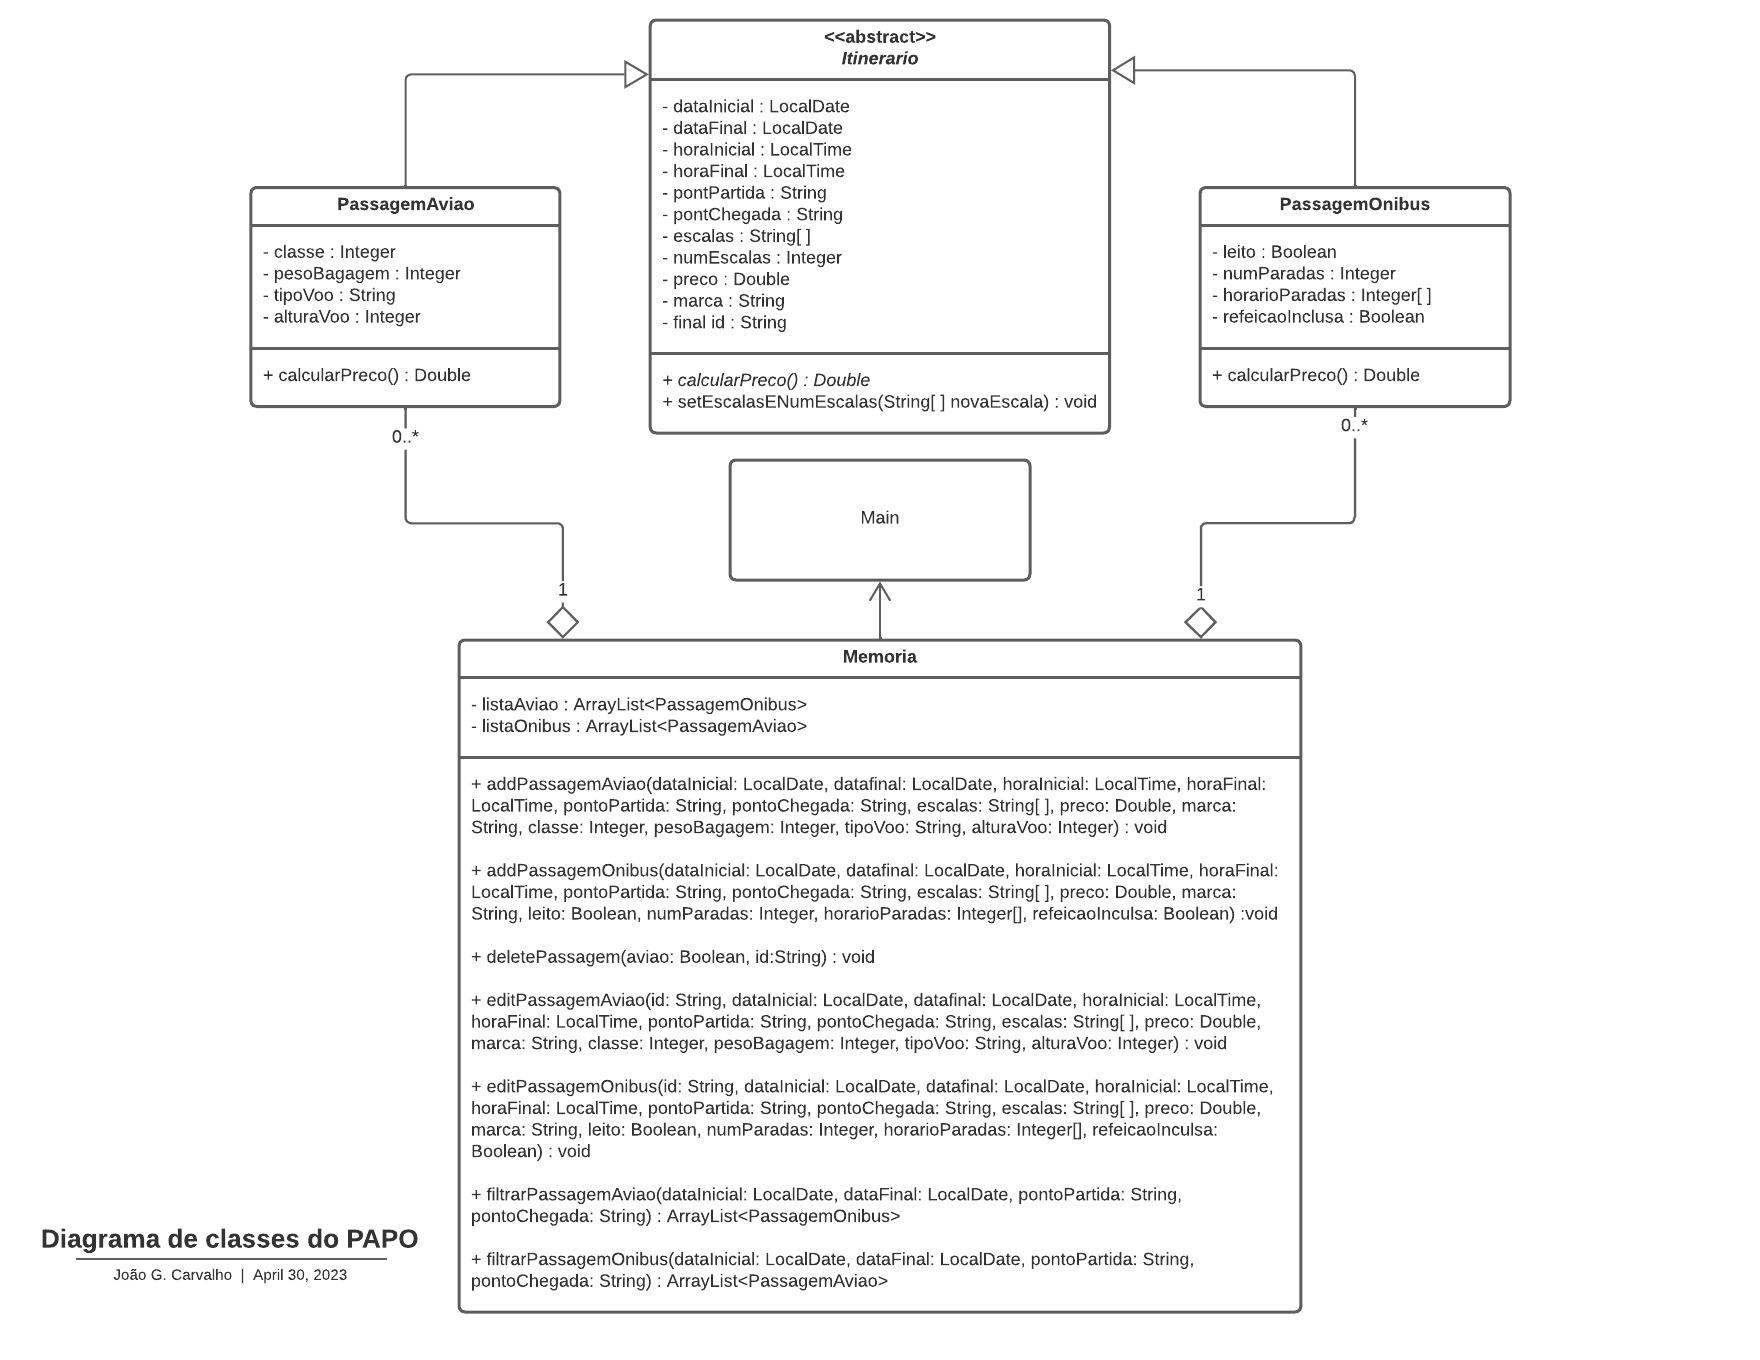
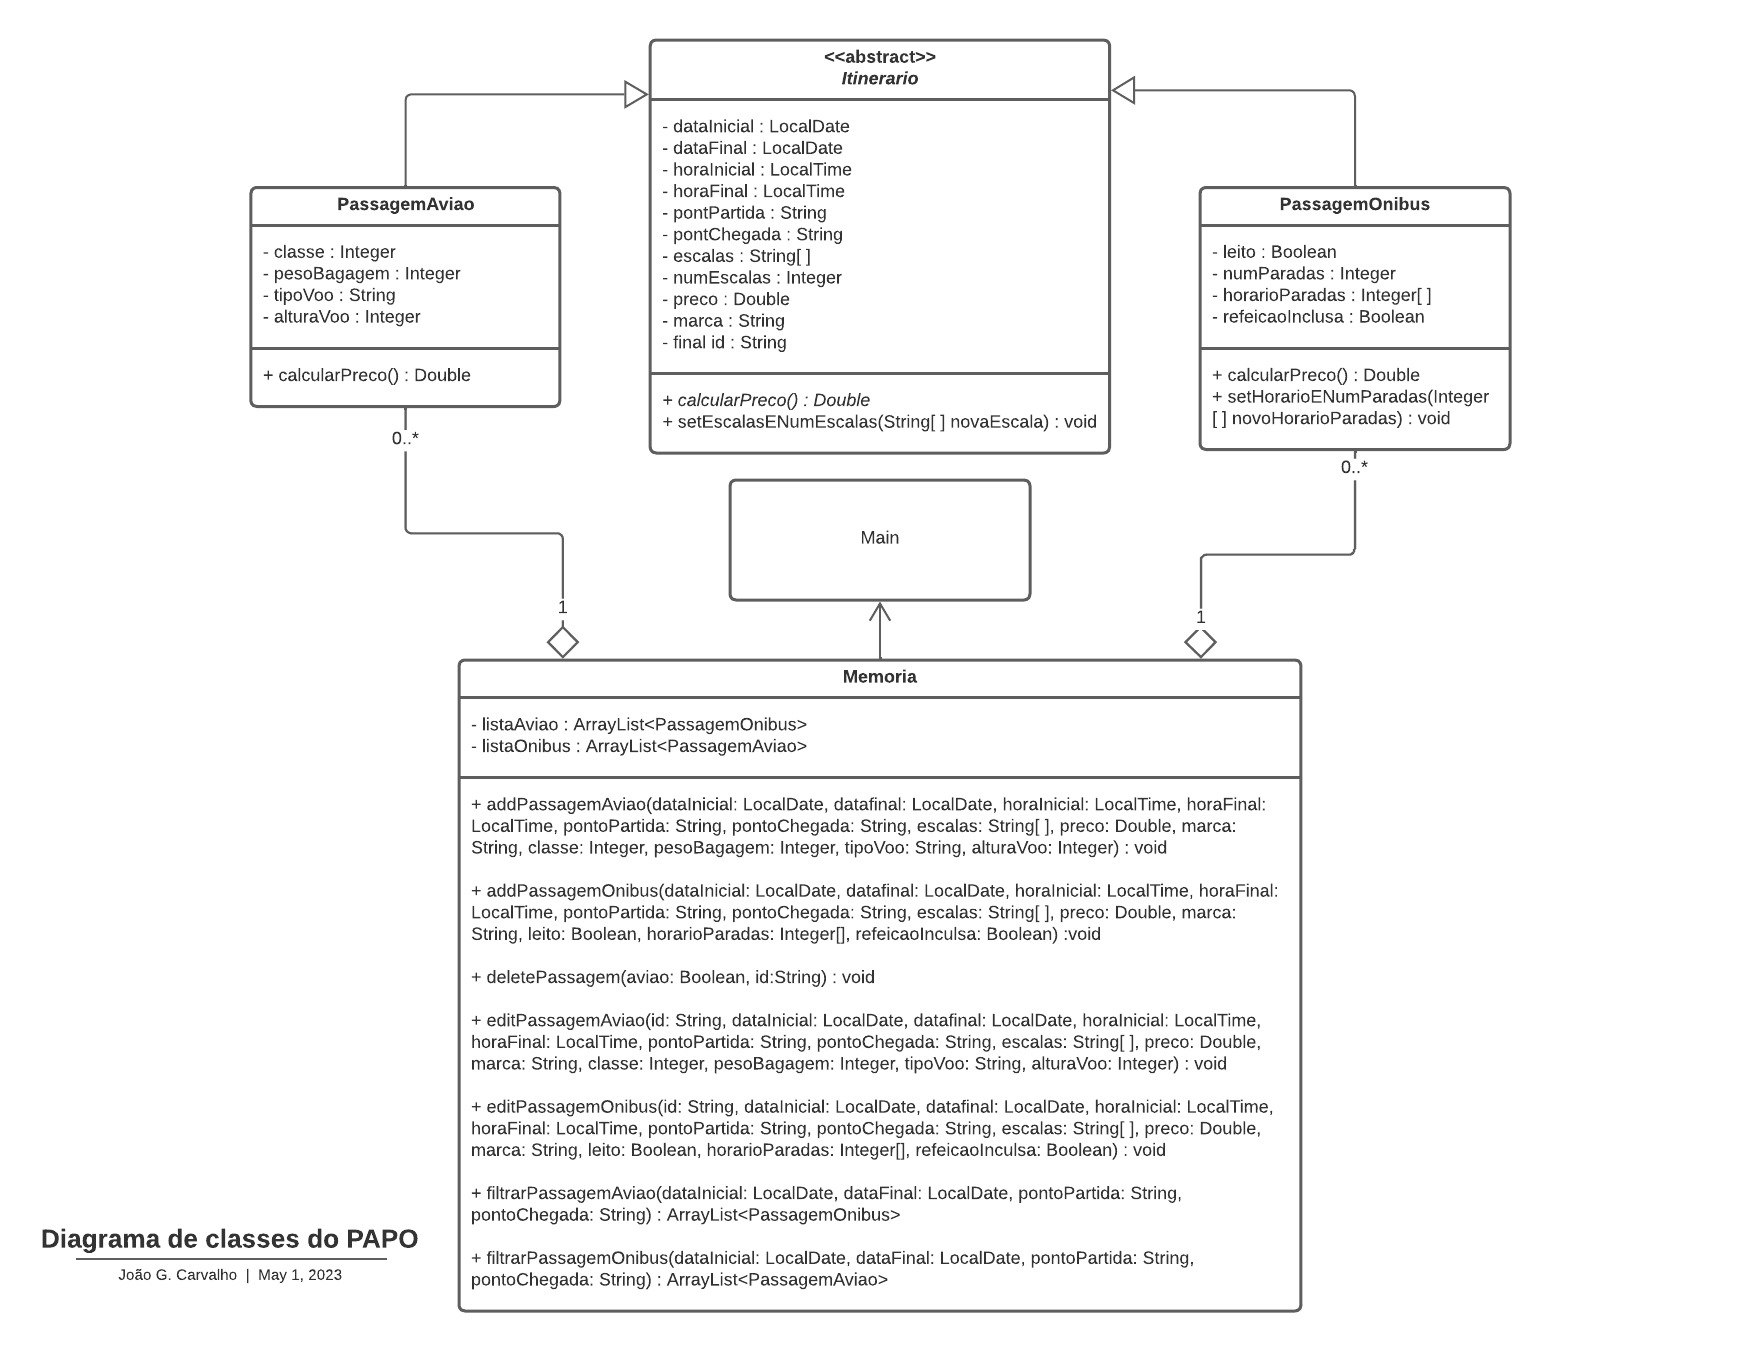
Adicionando melhorias na classe passagemonibus

diff --git a/Gerenciador_Passagens/src/principal/Main.java b/Gerenciador_Passagens/src/principal/Main.java
@@ -11,7 +11,6 @@ public class Main {
 		Memoria memoria = new Memoria();
 		Scanner scanner = new Scanner(System.in);
 		DateTimeFormatter formatador = DateTimeFormatter.ofPattern("dd/MM/yyyy");
-		
 	//ADICIONANDO PASSAGENS AVIAO
 		memoria.addPassagemAviao(LocalDate.of(2023, 12, 04), LocalDate.of(2023, 12, 05), 
 				  LocalTime.of(14, 0), LocalTime.of(18, 0),
@@ -37,25 +36,24 @@ public class Main {
 		memoria.addPassagemOnibus(LocalDate.of(2023, 12, 04), LocalDate.of(2023, 12, 5), 
 				  LocalTime.of(14, 0), LocalTime.of(1, 0),
 				  "SP-Brasil", "DF-Brasil" , new String[] {"SP-Brasil", "GO-BRASIL", "BA-BRASIL"} , 
-				  150.31, "Mercedes", true, 0, new Integer [] {}, true);
+				  150.31, "Mercedes", true, new Integer [] {15}, true);
 		memoria.addPassagemOnibus(LocalDate.of(2023, 12, 04), LocalDate.of(2023, 12, 6), 
 				  LocalTime.of(10, 0), LocalTime.of(5, 0),
 				  "SP-Brasil", "DF-Brasil" , new String[] {"SP-Brasil", "GO-BRASIL", "BA-BRASIL"} , 
-				  150.31, "Mercedes", false, 0, new Integer [] {}, false);
+				  150.31, "Mercedes", false, new Integer [] {1, 6}, false);
 		memoria.addPassagemOnibus(LocalDate.of(2023, 9, 2), LocalDate.of(2023, 9, 3), 
 				  LocalTime.of(1, 0), LocalTime.of(20, 0),
 				  "PB-Brasil", "MG-Brasil" , new String[] {} , 
-				  90.58, "Gol", true, 3, new Integer [] {8, 13, 18}, true);
+				  90.58, "Gol", true, new Integer [] {8, 13, 18}, true);
 		memoria.addPassagemOnibus(LocalDate.of(2023, 10, 10), LocalDate.of(2023, 10, 10), 
 				  LocalTime.of(6, 0), LocalTime.of(18, 0),
 				  "AM-Brasil", "BA-Brasil" , new String[] {} , 
-				  150.18, "OptimusPrime", false, 1, new Integer [] {14}, false);
+				  150.18, "OptimusPrime", false, new Integer [] {14}, false);
 		memoria.addPassagemOnibus(LocalDate.of(2023, 7, 26), LocalDate.of(2023, 7, 26), 
 				  LocalTime.of(14, 0), LocalTime.of(18, 0),
 				  "GO-Brasil", "DF-Brasil" , new String[] {} , 
-				  100.08, "Buson", false, 0, new Integer [] {}, false);
+				  100.08, "Buson", false, new Integer [] {}, false);
 		
-	
 	//LOOP APLICACAO	
 		while(true) {
 			System.out.println("\nBem vindo, ao gerenciador e passagens PAPO, aqui está a lista de comandos:" 
@@ -122,7 +120,7 @@ public class Main {
 					 memoria.editPassagemOnibus(id, LocalDate.of(2025, 5, 05), LocalDate.of(2025, 05, 05), 
 							 					LocalTime.of(11,11), LocalTime.of(22, 22),
 							 					"TESTE1", "TESTE2" , new String[] {"TESTE3", "TESTE4"} , 
-							 					999.99, "TESTE5", true, 2, new Integer [] {14, 18}, true);
+							 					999.99, "TESTE5", true, new Integer [] {14, 18}, true);
 					 System.out.println("Passagem editada com sucesso");
 				 }else {
 					 System.out.println("Opcao invalida :(");

diff --git a/Gerenciador_Passagens/src/principal/Memoria.java b/Gerenciador_Passagens/src/principal/Memoria.java
@@ -20,10 +20,10 @@ public class Memoria {
 	}
 	public void addPassagemOnibus(LocalDate dataInicial, LocalDate dataFinal, LocalTime horaInicial, 
 				LocalTime horaFinal,String pontPartida, String pontChegada, String[] escalas, Double preco, 
-				String marca, Boolean leito, Integer numParadas, Integer[] horarioParadas, Boolean refeicaoInclusa){
+				String marca, Boolean leito, Integer[] horarioParadas, Boolean refeicaoInclusa){
 		
 		PassagemOnibus novaPO = new PassagemOnibus (dataInicial, dataFinal, horaInicial, horaFinal, 
-				pontPartida, pontChegada, escalas, preco, marca, leito, numParadas, horarioParadas, refeicaoInclusa);
+				pontPartida, pontChegada, escalas, preco, marca, leito, horarioParadas, refeicaoInclusa);
 		if(dataInicial.isAfter(LocalDate.now())|| dataInicial.isEqual(LocalDate.now())) {
 			listaOnibus.add(novaPO);
 }
@@ -80,7 +80,7 @@ public class Memoria {
 	}
 	public void editPassagemOnibus(String id,  LocalDate dataInicial, LocalDate dataFinal,
 				LocalTime horaInicial, LocalTime horaFinal, String pontPartida, String pontChegada, 
-				String[] escalas, Double preco, String marca, Boolean leito, Integer numParadas, 
+				String[] escalas, Double preco, String marca, Boolean leito, 
 				Integer[] horarioParadas, Boolean refeicaoInclusa) {
 		for(PassagemOnibus index : listaOnibus) {
 			if(index.getId().equals(id)) {
@@ -94,8 +94,7 @@ public class Memoria {
 				index.setPreco(preco);
 				index.setMarca(marca);
 				index.setLeito(leito);
-				index.setNumParadas(numParadas);
-				index.setHorarioParadas(horarioParadas);
+				index.setHorarioENumParadas(horarioParadas);
 				index.setRefeicaoInclusa(refeicaoInclusa);
 				if(index.getDataInicial().isAfter(index.getDataFinal())){
 					deletePassagem(false, index.getId());

diff --git a/Gerenciador_Passagens/src/principal/PassagemOnibus.java b/Gerenciador_Passagens/src/principal/PassagemOnibus.java
@@ -12,16 +12,15 @@ public class PassagemOnibus extends Itinerario{
 //CONSTRUTOR
 	public PassagemOnibus(LocalDate dataInicial, LocalDate dataFinal, LocalTime horaInicial, LocalTime horaFinal,
 					String pontPartida, String pontChegada, String[] escalas, Double preco, String marca, 
-					Boolean leito, Integer numParadas, Integer[] horarioParadas, Boolean refeicaoInclusa){
+					Boolean leito, Integer[] horarioParadas, Boolean refeicaoInclusa){
 	//SUPER
 		super(dataInicial, dataFinal, horaInicial, horaFinal, pontPartida, pontChegada, escalas, preco, marca);
 	//LEITO
 		this.leito = leito;
+	//HORARIO DAS PARADAS	
+		this.horarioParadas = horarioParadas != null ? horarioParadas.clone() : new Integer[0];
 	//NUMERO DE PARADAS
-		if(numParadas >= 0) {this.numParadas = numParadas;}
-			else {throw new IllegalArgumentException("Numero de paradas nao pode ser negativo");}
-	//HORARIO DAS PARADAS
-		this.horarioParadas = horarioParadas != null ? horarioParadas.clone() : new Integer[0];;
+		this.numParadas = horarioParadas.length;
 	//ALMOCO INCLUSO
 		this.refeicaoInclusa = refeicaoInclusa;
 	}
@@ -44,13 +43,9 @@ public class PassagemOnibus extends Itinerario{
 			this.leito = novoLeito;
 		}
 	}
-	public void setNumParadas(Integer novoNumParadas) {
-		if(novoNumParadas != null && novoNumParadas >0) {
-			this.numParadas = novoNumParadas;
-		}
-	}
-	public void setHorarioParadas(Integer[] novoHorarioParadas) {
+	public void setHorarioENumParadas(Integer[] novoHorarioParadas) {
 		this.horarioParadas = novoHorarioParadas != null ? novoHorarioParadas.clone() : new Integer[0] ;
+		this.numParadas = horarioParadas.length;
 	}
 	public void setRefeicaoInclusa(Boolean novaRefeicaoInclusa) {
 		if(novaRefeicaoInclusa != null) {
